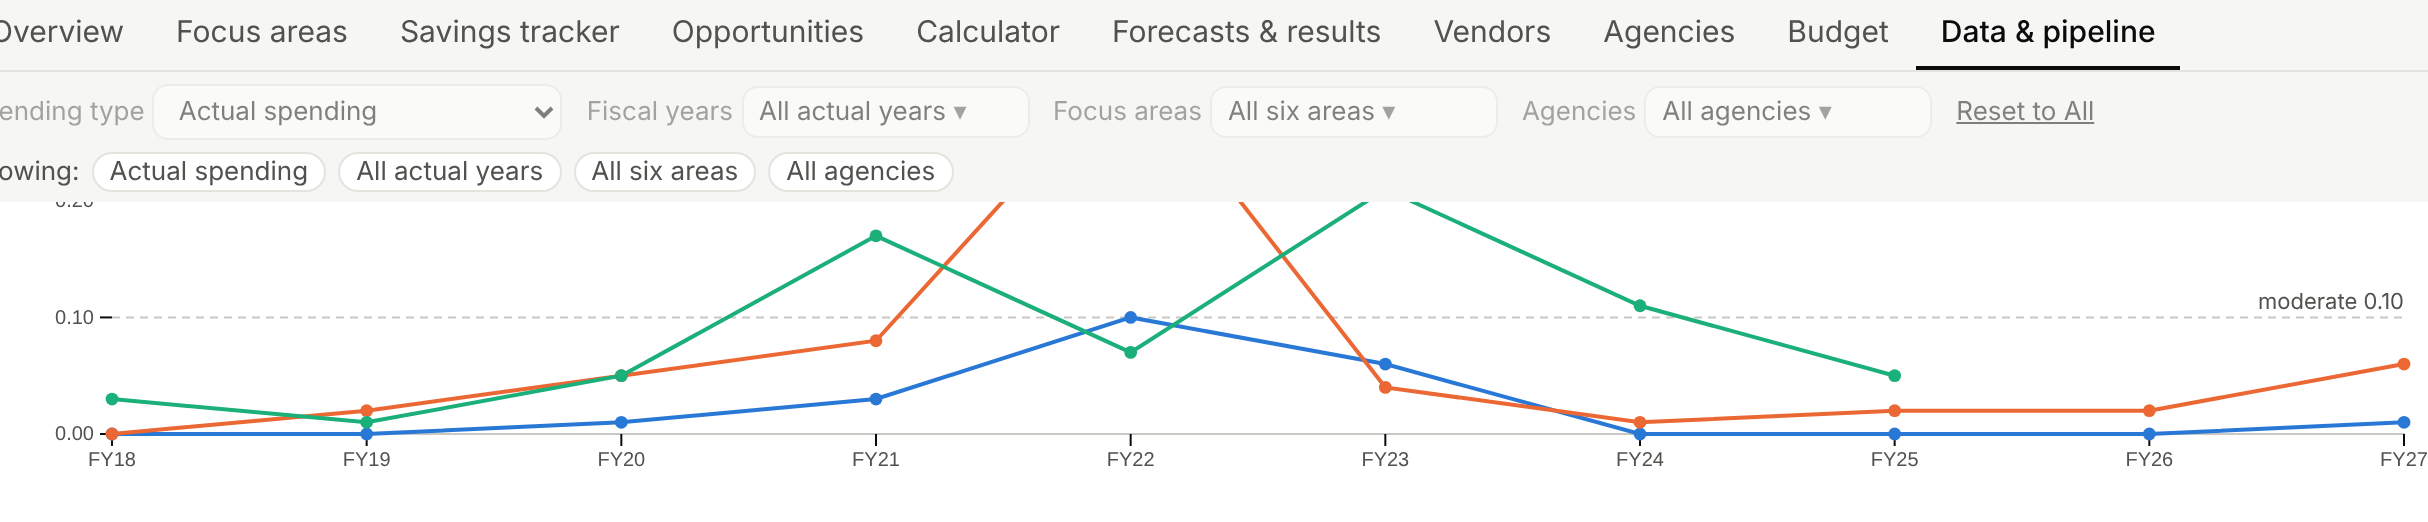
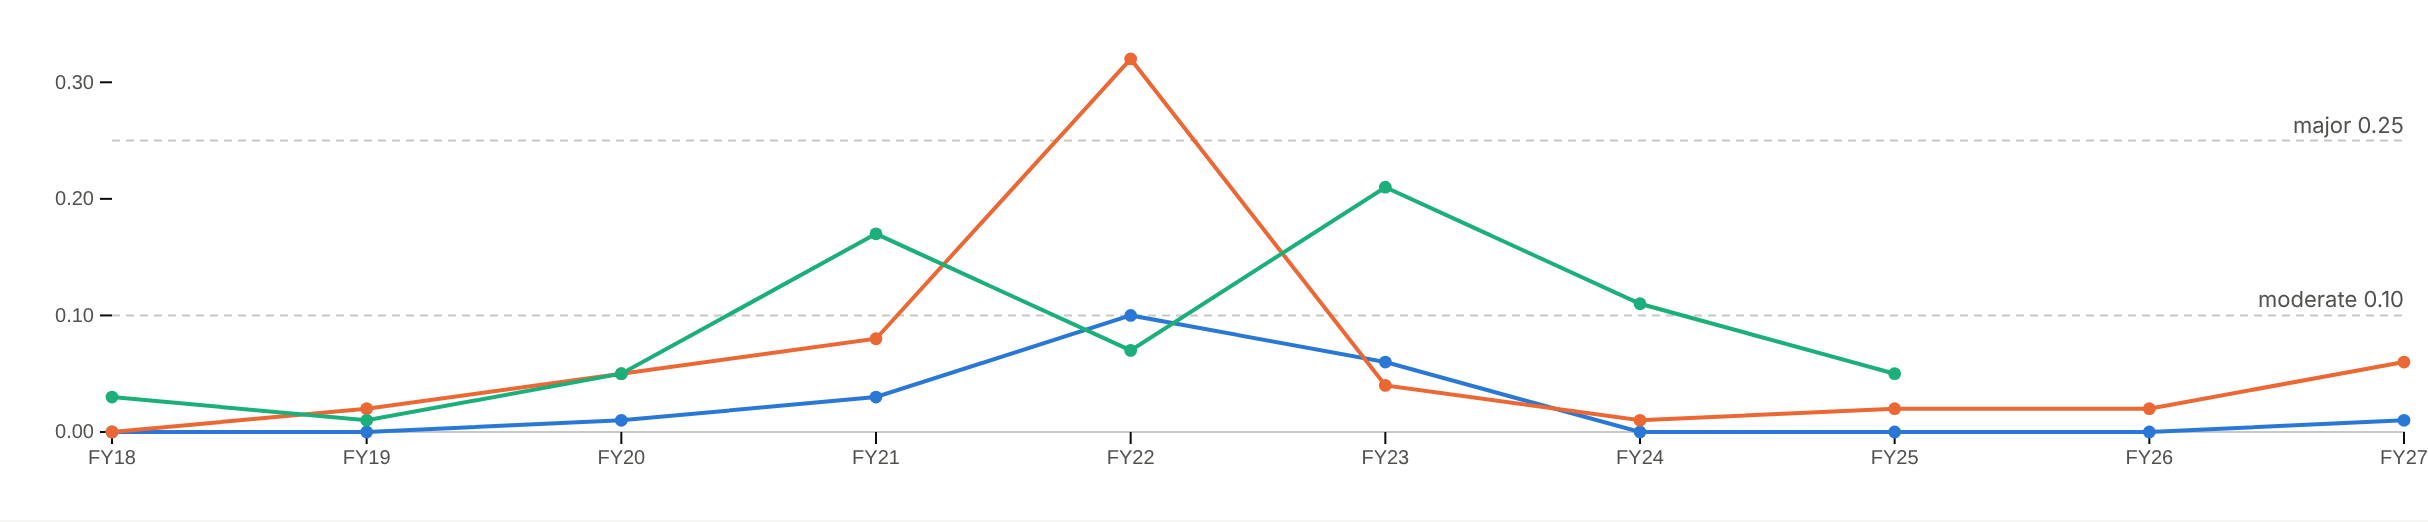
README screenshots from the 3.2.0 build; explorer table counts never truncate
The README's page screenshots were from an older build (101 of 103 checks, data as of
Nov 10). Regenerated with make readme-shots from this build (143 of 143, data as of
Nov 13). The explorer's table list cut a long name's row count (d_book_program_differences
read as 1, not 13); names now truncate with a tooltip and counts keep their width.

Claude-Session: https://claude.ai/code/session_01PGNQKvTMbfBAPeZyUjUiDv

diff --git a/src/pipeline/site_explorer.py b/src/pipeline/site_explorer.py
@@ -33,7 +33,8 @@ main.wide{max-width:1180px}
 .tables{list-style:none;margin:0;padding:0;max-height:26rem;overflow:auto;font-size:14px}
 .tables li{display:flex;justify-content:space-between;gap:8px;padding:3px 4px;border-radius:4px;cursor:pointer}
 .tables li:hover,.tables li:focus-visible{background:var(--s-hover);outline:none}
-.tables .n{color:var(--s-muted);font-variant-numeric:tabular-nums}
+.tables .n{color:var(--s-muted);font-variant-numeric:tabular-nums;flex:none}
+.tables li>span:first-child{min-width:0;overflow:hidden;text-overflow:ellipsis;white-space:nowrap}
 textarea{width:100%;min-height:9rem;font:13px/1.45 ui-monospace,SFMono-Regular,Menlo,Consolas,monospace;padding:8px;border:1px solid var(--s-line);border-radius:6px;background:var(--s-bg);color:var(--s-fg);resize:vertical}
 .row{display:flex;flex-wrap:wrap;gap:8px;align-items:center;margin:8px 0}
 button,select,input[type=search]{font:inherit;font-size:14px;padding:4px 10px;border:1px solid var(--s-line);border-radius:6px;background:var(--s-panel);color:var(--s-fg);max-width:100%}
@@ -100,7 +101,7 @@ async function copyText(text){ const box = $('exCopyBox'); box.hidden = true; S.
   catch (e) { const t = $('exCopyText'); t.value = text; box.hidden = false; t.focus(); t.select(); let ok = false; try { ok = document.execCommand('copy'); } catch (e2) { ok = false; }
     S.copied = ok ? 'execCommand' : 'select'; $('exCopyMsg').textContent = ok ? 'Copied (CSV). The rows are also in the box below.' : 'This page cannot write to the clipboard here: the rows are selected in the box below; press Ctrl+C (or ⌘C) to copy them.'; } }
 function listTables(onPick){ const ul = $('exTables'); ul.textContent = '';
-  __EX.tables.forEach(t => { const li = document.createElement('li'); li.tabIndex = 0; li.dataset.t = t; const a = document.createElement('span'); a.textContent = t; const n = document.createElement('span'); n.className = 'n'; n.textContent = S.counts[t] != null ? Number(S.counts[t]).toLocaleString('en') : '';
+  __EX.tables.forEach(t => { const li = document.createElement('li'); li.tabIndex = 0; li.dataset.t = t; const a = document.createElement('span'); a.textContent = t; a.title = t; const n = document.createElement('span'); n.className = 'n'; n.textContent = S.counts[t] != null ? Number(S.counts[t]).toLocaleString('en') : '';
     li.append(a, n); li.addEventListener('click', () => onPick(t)); li.addEventListener('keydown', e => { if (e.key === 'Enter') onPick(t); }); ul.appendChild(li); });
   $('exTN').textContent = `(${__EX.tables.length})`; }
 // --- CSV fallback (plain JS) -------------------------------------------------------------------------------
